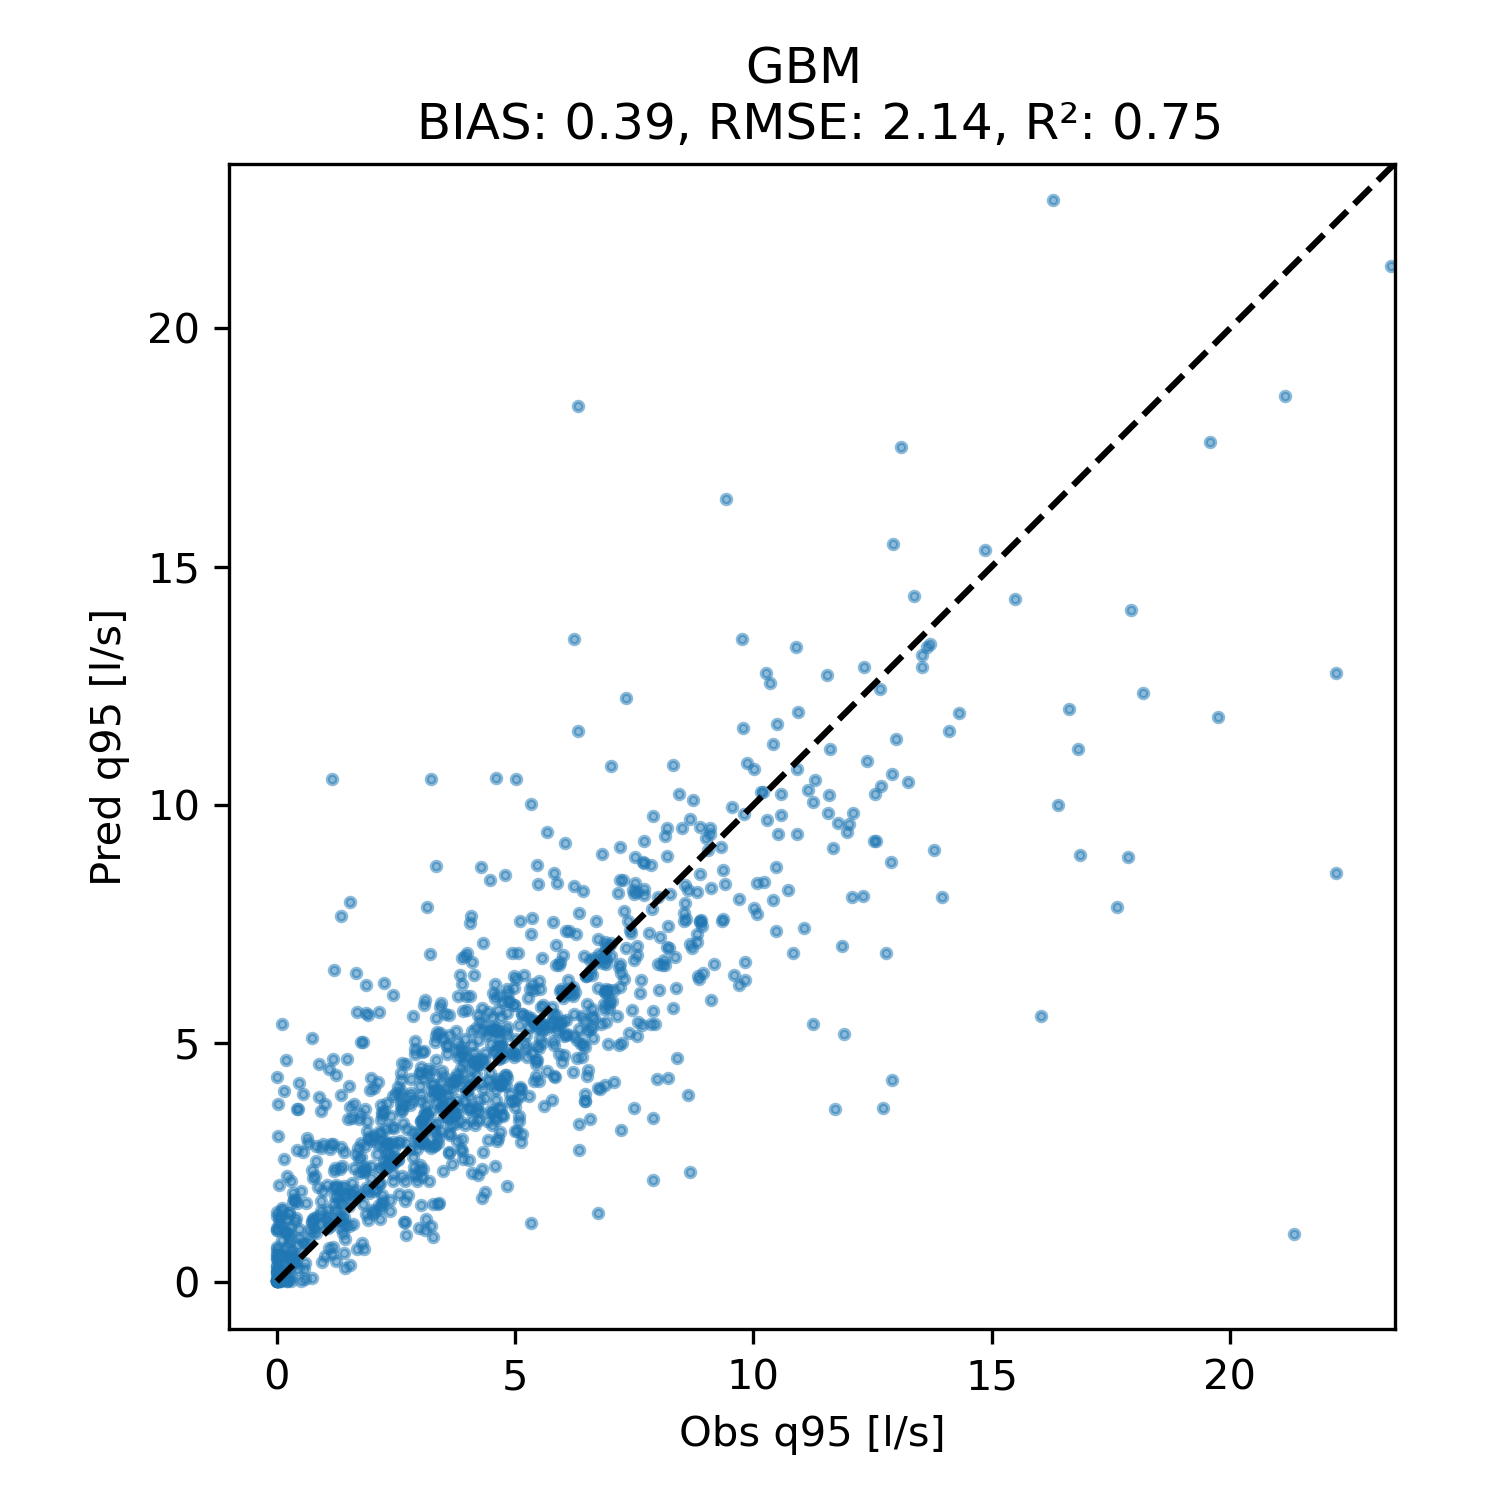
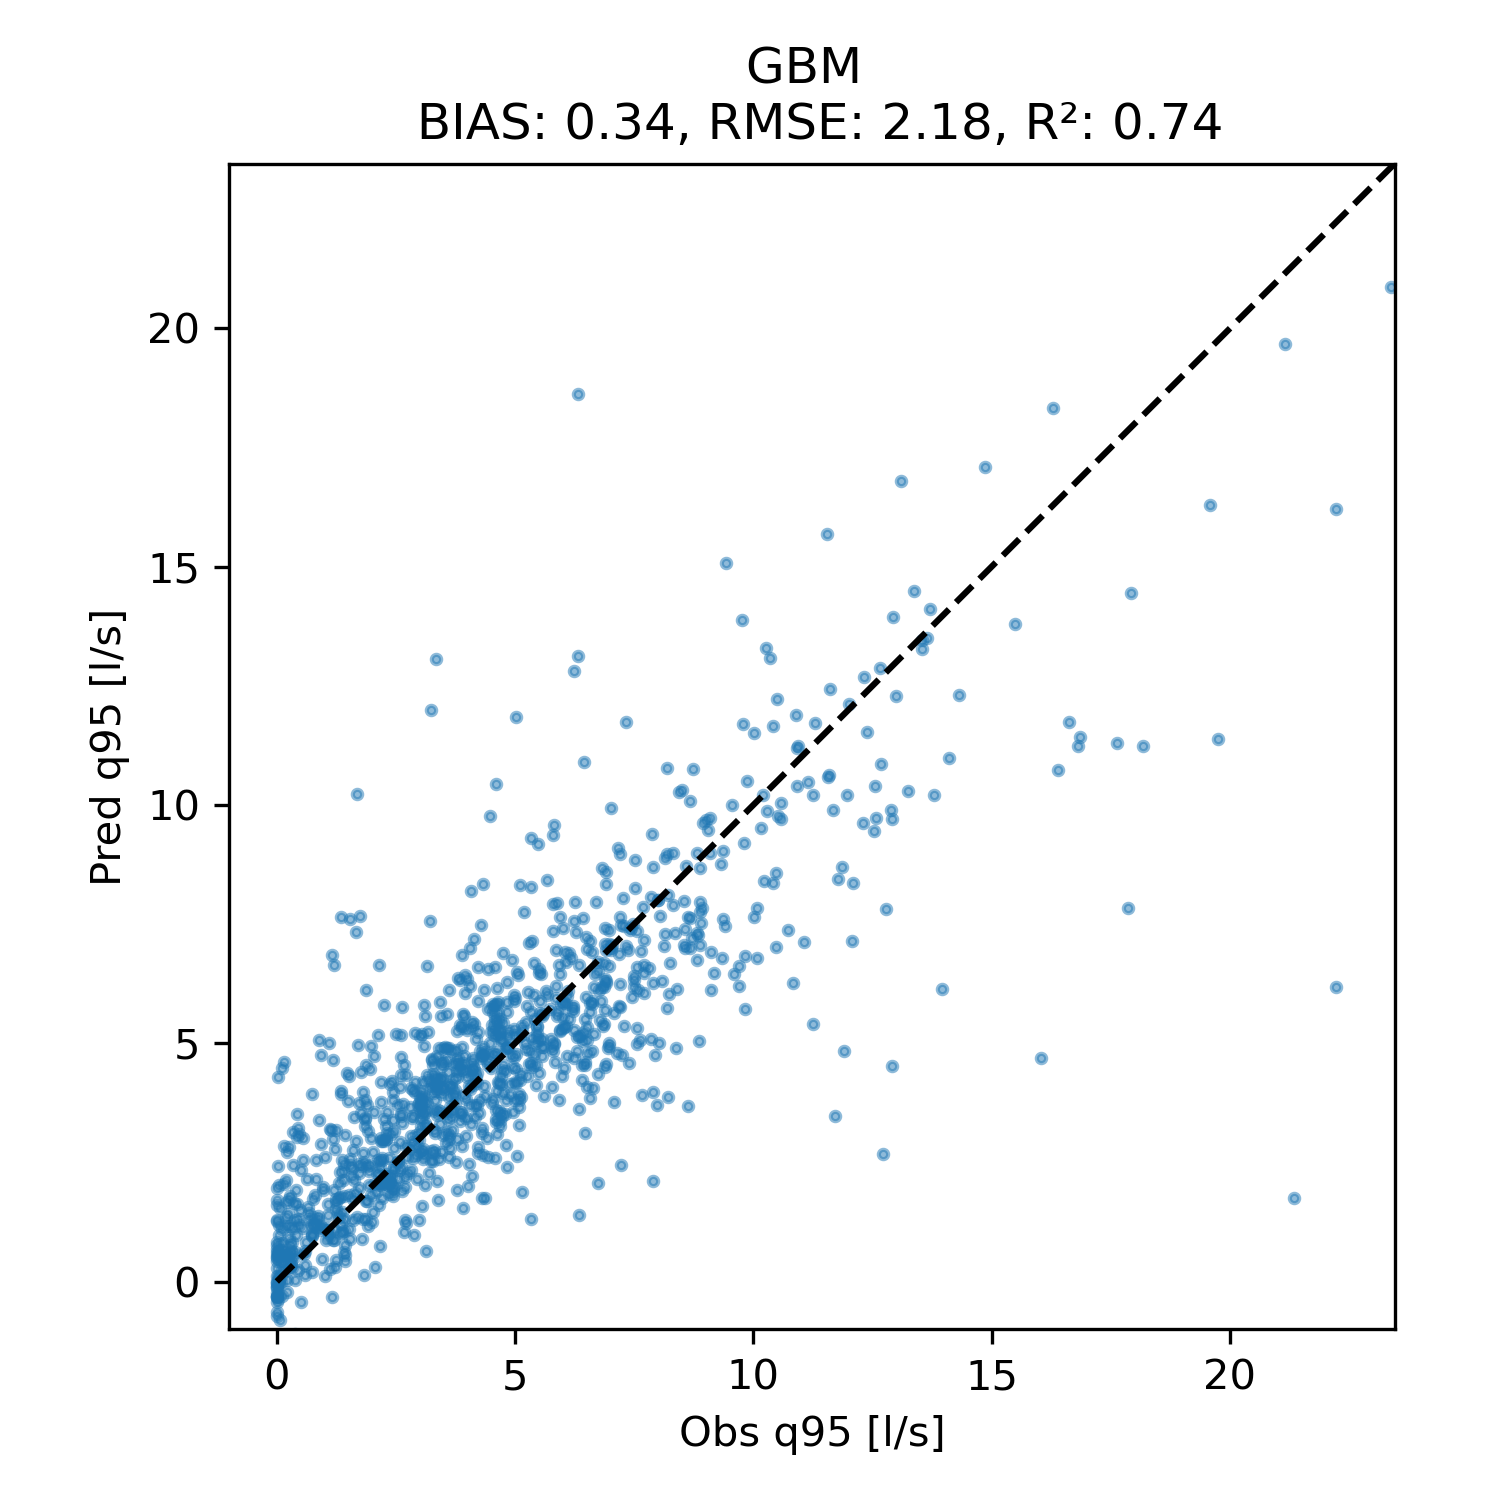
Uncertainty incorporated to dataset

diff --git a/src/post_processing.py b/src/post_processing.py
@@ -9,6 +9,8 @@ import numpy as np
 import pandas as pd
 from src import functions as mlp
 from scipy.optimize import curve_fit
+from scipy.interpolate import interp1d
+import statsmodels.formula.api as smf
 import matplotlib.pyplot as plt
 
 
@@ -20,31 +22,31 @@ df = df.loc[:, ~(df==0).all(axis=0)]
 # Choose target (qm or q95)
 # target = 'q95' # q95 or qm
 targets = ['qm', 'q95'] #, 'Wavg', 'Havg']
-models = ['MLR', 'DT', 'KNN', 'SVM', 'GBM', 'RF']
+models = ['SVM', 'GBM', 'RF']
 features = df.columns.drop(targets)
 
-method = 'k-fold'
 for target in targets:
     for mlmodel in models:
         
-        dfr = pd.read_parquet('data/output/results_'+target+'_'+mlmodel+'_'+method+'.parquet')
-        imps = pd.read_parquet('data/output/imps_'+target+'_'+mlmodel+'_'+method+'.parquet')
+        dfr = pd.read_parquet('data/output/results_raw_'+target+'_'+mlmodel+'_k-fold.parquet')
+        imps = pd.read_parquet('data/output/imps_'+target+'_'+mlmodel+'_k-fold.parquet')
         
         dfr = dfr.sort_index()
-        # min_value = dfr.obs.quantile([0.025]).iloc[0]
-        # dfr['pred'] = np.maximum(dfr.pred, min_value)
+        # min_value = dfr.obs.quantile([0.01]).iloc[0]
+        dfr['pred'] = np.maximum(dfr.pred, 0.01)
         
         # dfr = dfr[dfr.pred < 12.5]
         
         y = dfr['obs'].values
         yhat = dfr['pred'].values
-        # mlp.plot_results(y, yhat, imps, target, mlmodel, savefigs=True)
+        
+
+        # mlp.plot_results(y, yhat, imps, target, mlmodel, savefigs=False)
         
         dfr['error'] = y - yhat
-        dfr['rr'] = dfr.error / dfr.pred
         
-        dfcorrx = df.corrwith(abs(dfr.rr), method='spearman')
-        dfcorry = dfr.corrwith(abs(dfr.rr), method='spearman')
+        dfcorrx = df.corrwith(abs(dfr.error), method='spearman')
+        dfcorry = dfr.corrwith(abs(dfr.error), method='spearman')
         # print(dfcorry)
         
         step = 0.1
@@ -52,89 +54,70 @@ for target in targets:
         quantiles = dfr.pred.quantile(steps)
         # quantiles = dfr.pred.quantile([0.05, 0.25, 0.5, 0.75, 0.95, 1])
         lower = 0
-        rr_range = pd.DataFrame(columns=['90%_low', '90%_high', '75%_low', '75%_high'])
-        dfu = df[['cobacia', 'cocursodag']]
-        dfu.loc[:, 'pred'] = yhat
-        dfu.loc[:, rr_range.columns] = 0.0
+        e_range = pd.DataFrame(columns=['90%_low', '90%_high', '75%_low', '75%_high'])
         for q, upper in quantiles.items():
             subset = (dfr.pred > lower) & (dfr.pred <= upper)
             dfq = dfr[subset]
-            rr_range.loc[q, '90%_low'] = dfq.rr.quantile([0.05]).iloc[0]
-            rr_range.loc[q, '90%_high'] = dfq.rr.quantile([0.95]).iloc[0]
-            rr_range.loc[q, '75%_low'] = dfq.rr.quantile([0.125]).iloc[0]
-            rr_range.loc[q, '75%_high'] = dfq.rr.quantile([0.875]).iloc[0]
+            e_range.loc[q, '90%_low'] = dfq.error.quantile([0.05]).iloc[0]
+            e_range.loc[q, '90%_high'] = dfq.error.quantile([0.95]).iloc[0]
+            e_range.loc[q, '75%_low'] = dfq.error.quantile([0.125]).iloc[0]
+            e_range.loc[q, '75%_high'] = dfq.error.quantile([0.875]).iloc[0]
             lower = upper
             
-            # for i, s in rr_range.iterrows():
-            #     dfu.loc[subset, s.index.to_list()] = np.outer(dfu.loc[subset, 'pred'], (1+rr_range.loc[q]))
-        rr_range['upper_limit'] = quantiles
+        e_range['upper_limit'] = quantiles
+        xdata = e_range.upper_limit.rolling(2).mean()
+        xdata.iloc[0] = e_range.upper_limit.iloc[0] / 2
+        xdata = xdata.values
         
-        xdata = rr_range.upper_limit.rolling(2).mean()
-        xdata.iloc[0] = rr_range.upper_limit.iloc[0] / 2
-        xplot = np.arange(0.01, xdata.max() * 2,0.1)
+        dfq = dfr.copy().sort_values(by='pred')
+
+        # Quantile models
+        params = pd.DataFrame(columns=['90%_low', '90%_high', '75%_low', '75%_high'])
         
-        plt.scatter(dfr['pred'], dfr['rr'], s=3, alpha=0.25, label='Data Points')
-        for qd in rr_range.columns[:-1]:
-            ydata_noisy = rr_range[qd].values
-            popt, pcov = curve_fit(rational_func, xdata, ydata_noisy)
-            yplot = rational_func(xplot, *popt)
-            # Plot the original data and the fitted curve
-            plt.scatter(xdata, ydata_noisy)
-            plt.plot(xplot, yplot, 'r-', label=qd)
+        for n, qd in enumerate([0.05, 0.95, 0.125, 0.875]):
+            quantile_model = smf.quantreg('error ~ pred', dfq).fit(q=qd)
+            params.iloc[:,n] = quantile_model.params
+        
+        xx = np.arange(0.1, dfq.pred.iloc[-1], 0.1)
+        plt.scatter(dfr['pred'], dfr['error'], s=15, alpha=0.1, label='Data Points')
+        for n, column in enumerate(params.columns):
+            a = params.loc['pred', column]
+            b = params.loc['Intercept', column]
             
-            print(qd)
-            # print(np.quantile(yplot, [0.1, 0.25, 0.5, 0.75, 0.9]))
-            print(rational_func(xdata, *popt))
-            print('\n')
-        plt.ylim([-1, 2.5])
-        plt.legend()
+            yy = a * xx + b
+            yy[(xx + yy) < 0] = -xx[(xx + yy) < 0]
+            plt.plot(xx, yy, label='Quantile Fit ' + str(column))
+            
+            ydata_noisy = e_range.iloc[:, n].values
+            plt.scatter(xdata, ydata_noisy)
+        
+        plt.xlim([-0.5, dfq.pred.quantile(0.95)])
+        plt.ylim([-5, 5])
+        # plt.ylim([-1, 2.5])
+        # plt.ylim([dfr.error.quantile(0.1), dfr.error.max()])
+        plt.title(mlmodel + ' ' + target)
+        # plt.legend()
         plt.show()
         
-
         
+        dataset = pd.read_parquet('data/output/results_raw_'+target+'_'+mlmodel+'_dataset.parquet')
+        dataset.loc[dfr.index, 'pred'] = dfr.pred # Replace training predictions with k-fold predictions
+        dataset = dataset.drop('obs', axis=1)
+        
+        # Iterate through each column in the original DataFrame
+        for column in params.columns:
+            a = params.loc['pred', column]
+            b = params.loc['Intercept', column]
+            
+            # Apply the calculation a*x + b
+            dataset[column] = dataset.pred * (1 + a) + b
+        
+        dataset[dataset<0] = 0
+        dataset['gauged'] = dataset.index.isin(dfr.index)
+        
+        # dataset.to_parquet('data/output/bho_'+target+'_'+mlmodel+'.parquet')
 
 
-def rational_func(x, a, b, c, d):
-    return a + b / x ** 0.5
 
 
-from scipy.stats import normaltest
 
-stat, p_value = normaltest()
-print('Statistics=%.3f, p=%.3f' % (stat, p_value))
-
-# Interpret
-alpha = 0.05
-if p_value > alpha:
-    print('Sample looks Gaussian (fail to reject H0)')
-else:
-    print('Sample does not look Gaussian (reject H0)')
-
-
-import statsmodels.formula.api as smf
-
-dfq = dfr.copy()
-# dfq = dfq[dfq.pred <= dfq.pred.quantile(0.95)]
-
-def transform_x(x):
-    threshold = np.quantile(x, 0.95)
-    constant_value = 1 / np.sqrt(threshold)  # Constant after the threshold
-    transformed_x = np.where(x <= threshold, 1 / np.sqrt(x), constant_value)
-    return transformed_x
-
-# dfq['inv_pred'] = 1 / dfq.pred ** 0.5
-dfq['inv_pred'] = transform_x(dfq.pred)
-dfq = dfq.sort_values(by='pred')
-
-dfq['rr_abs'] = abs(dfq.rr)
-
-plt.scatter(dfr['pred'], dfr['rr'], s=15, alpha=0.1, label='Data Points')
-for qd in [0.05, 0.95, 0.125, 0.875]:
-    quantile_model = smf.quantreg('rr ~ inv_pred', dfq).fit(q=qd)
-    dfq[qd] = quantile_model.predict(dfq)
-    plt.plot(dfq.pred, dfq[qd], label='Quantile Fit ' + str(qd))
-    print( ((dfq[qd] - dfq.rr) >= 0).mean() )
-# plt.xlim([0, xplot.max()])
-plt.ylim([-1, 2.5])
-plt.legend()
-plt.show()

diff --git a/tests/00_main.py b/tests/00_main.py
@@ -13,7 +13,7 @@ import pandas as pd
 from src import functions as mlp
 
 
-df = pd.read_parquet('data/processed/data4ml_gauges.parquet')
+df = pd.read_parquet('data/processed/data4ml_bho.parquet')
 df = df.loc[:, ~(df==0).all(axis=0)]
 df = df.drop(['code', 'g_area', 'g_lat', 'g_lon'], axis=1)
 df = df.drop(['cocursodag', 'cobacia', 'nucomptrec'], axis=1)
@@ -26,14 +26,11 @@ features = df.columns.drop(targets)
 
 df = df.sample(frac = 1) # Shuffle values MAKES ALL THE DIFFERENCE IDKW
 for target in targets:
-    # error = pd.read_parquet('results_'+target+'_'+mlmodel+'.parquet')
-    
     try:
-        has_data = df.has_data
+        df[target].isna().any()
         method = 'dataset'
-        selected_features = features.drop('has_data')
+        selected_features = features
     except:
-        has_data = None
         method = 'k-fold'
         # Select features for modelling based on hyerarchical clustering
         cluster_feature, selected_features = mlp.fs_hcluster(df,
@@ -52,22 +49,23 @@ for target in targets:
                                   y,
                                   mlmodel,
                                   method=method,
-                                  has_data=has_data
                                   )
-        imps.columns = selected_features
         
-        # y = np.expm1(y)
-        # yhat = np.expm1(yhat)
+        try:
+            imps.columns = selected_features
+            imps.to_parquet('data/output/imps_'+target+'_'+mlmodel+'_'+method+'.parquet')
+            mlp.plot_results(y, yhat, imps, target, mlmodel, savefigs=True)
+        except:
+            0
         
         # Creating the DataFrame with specified columns and errors
         dfr = pd.DataFrame(index=df.index)
         dfr['obs'] = y
         dfr['pred'] = yhat
 
-        imps.to_parquet('data/output/imps_'+target+'_'+mlmodel+'_'+method+'.parquet')
         dfr.to_parquet('data/output/results_raw_'+target+'_'+mlmodel+'_'+method+'.parquet')
         
-        mlp.plot_results(y, yhat, imps, target, mlmodel, savefigs=True)
+        
         
     
 

diff --git a/src/data_treatment_modelready.py b/src/data_treatment_modelready.py
@@ -4,7 +4,7 @@ Created on Thu Sep 21 09:54:40 2023
 
 @author: RafBar
 """
-
+import numpy as np
 import pandas as pd
 
 # values_wavg = ['elv_avg', 'slp_avg', 'hnd_avg',
@@ -50,7 +50,8 @@ df = pd.read_parquet('data/interim/bho_data_agg.parquet')
 
 subs_new = pd.read_csv('data/external/base_baciasinc_qinc_calc_sem_ons_sem_climadj.csv')
 
-df['has_data'] = df['code'].isin(subs_new['codigo']) #.dropna(subset=['qm', 'q95'])
+has_data = df['code'].isin(subs_new['codigo']) #.dropna(subset=['qm', 'q95'])
+df.loc[~has_data, ['code', 'qm', 'q95']] = [0, np.nan, np.nan]
 
 # qm and q95 at the end
 cols = list(df.columns)
@@ -114,7 +115,7 @@ del df_prec, df_temp, df_et, df_pet, df_terrain_simple
 
 df.to_parquet('data/processed/data4ml_bho.parquet')
 
-df_gauges = df[df.has_data].drop('has_data', axis=1)
+df_gauges = df[df.has_data]
 df_gauges.to_parquet('data/processed/data4ml_gauges.parquet')
 
 

diff --git a/src/functions.py b/src/functions.py
@@ -194,7 +194,7 @@ def train_test(X, y, train_index, test_index, grid, model):
     return y_pred, r
 
 
-def model_run(X, y, mlmodel, method='kfold', has_data=None):
+def model_run(X, y, mlmodel, method='kfold'):
     """
     Tune hyperparameters, train and test a machine learning model.
 
@@ -240,7 +240,7 @@ def model_run(X, y, mlmodel, method='kfold', has_data=None):
         yhat, imps = kfold_cv(X, y, model, grid)
 
     elif method=='dataset':
-        train_index = has_data
+        train_index = ~np.isnan(y)
         test_index = [True] * train_index.size
         yhat, imps = train_test(X, y, train_index, test_index, grid, model)
     else:
